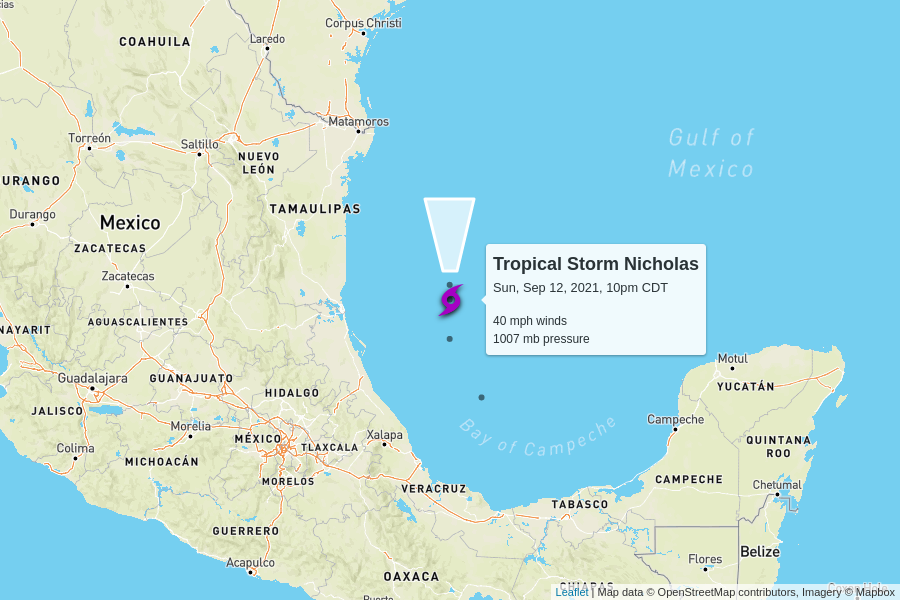
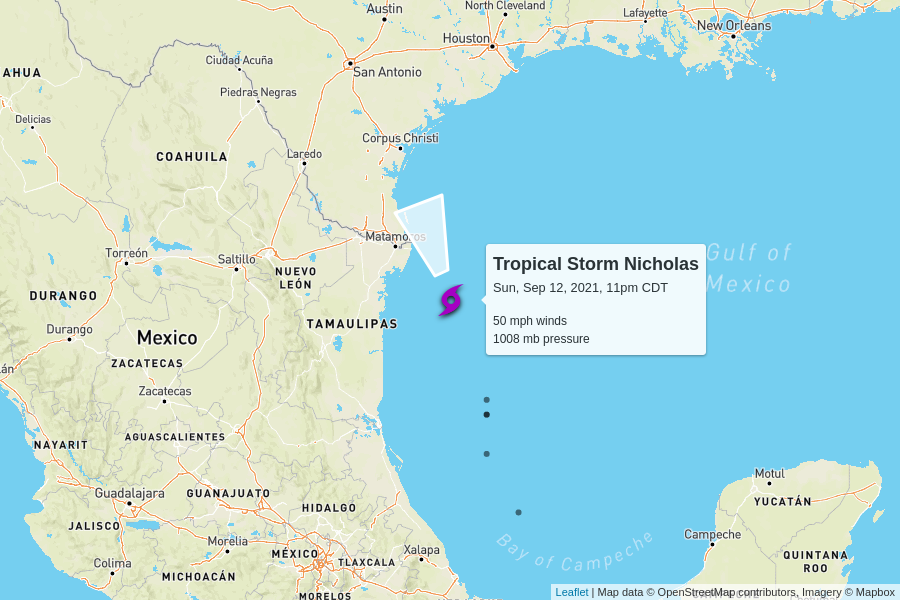
automatic update

diff --git a/docs/index.html b/docs/index.html
@@ -100,7 +100,7 @@
         <td colspan="6" class="storm category-0" >
           <h2>
             Tropical Storm Nicholas
-            <p class="updated">last updated <span data-time>2021-09-13T03:00:00.000Z</span></p>
+            <p class="updated">last updated <span data-time>2021-09-13T04:30:00.000Z</span></p>
           </h2>
         </td>
       </tr>
@@ -115,12 +115,12 @@
       </tr>
       <tr>
         <td class="spacer"></td>
-        <td>40 mph</td>
-        <td>1007 mb</td>
+        <td>50 mph</td>
+        <td>1008 mb</td>
         <td>
-          2 mph to the north
+          12 mph to the north-northwest
           <br/>
-          <span style="display: inline-block; font-size: 1.5em; transform: rotate(360deg);">↑</span>
+          <span style="display: inline-block; font-size: 1.5em; transform: rotate(340deg);">↑</span>
         </td>
         <td><a href="https://raw.githubusercontent.com/mgwalker/atlantic-hurricanes/main/data/csv/AL142021.csv">AL142021.csv</a></td>
         <td><a href="https://www.nhc.noaa.gov/archive/2021/NICHOLAS.shtml?">NHC advisories</a></td>
